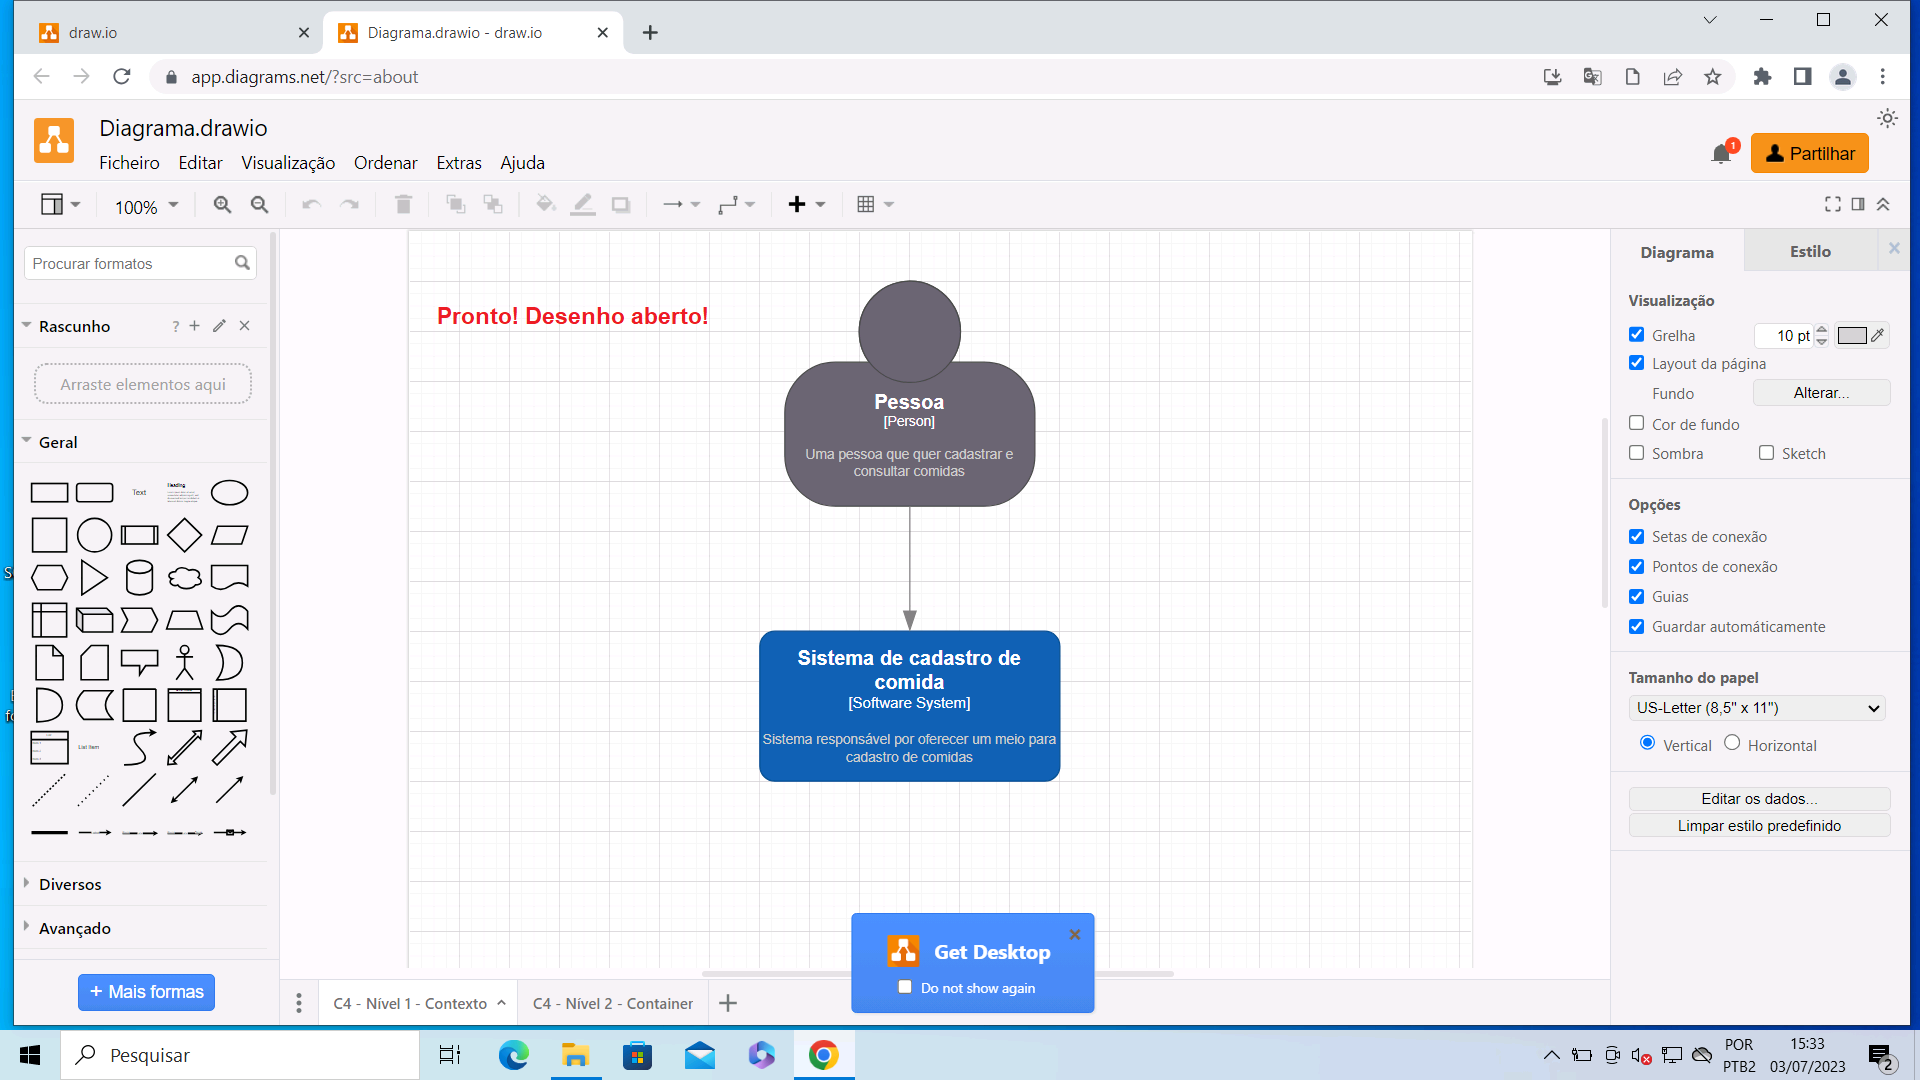
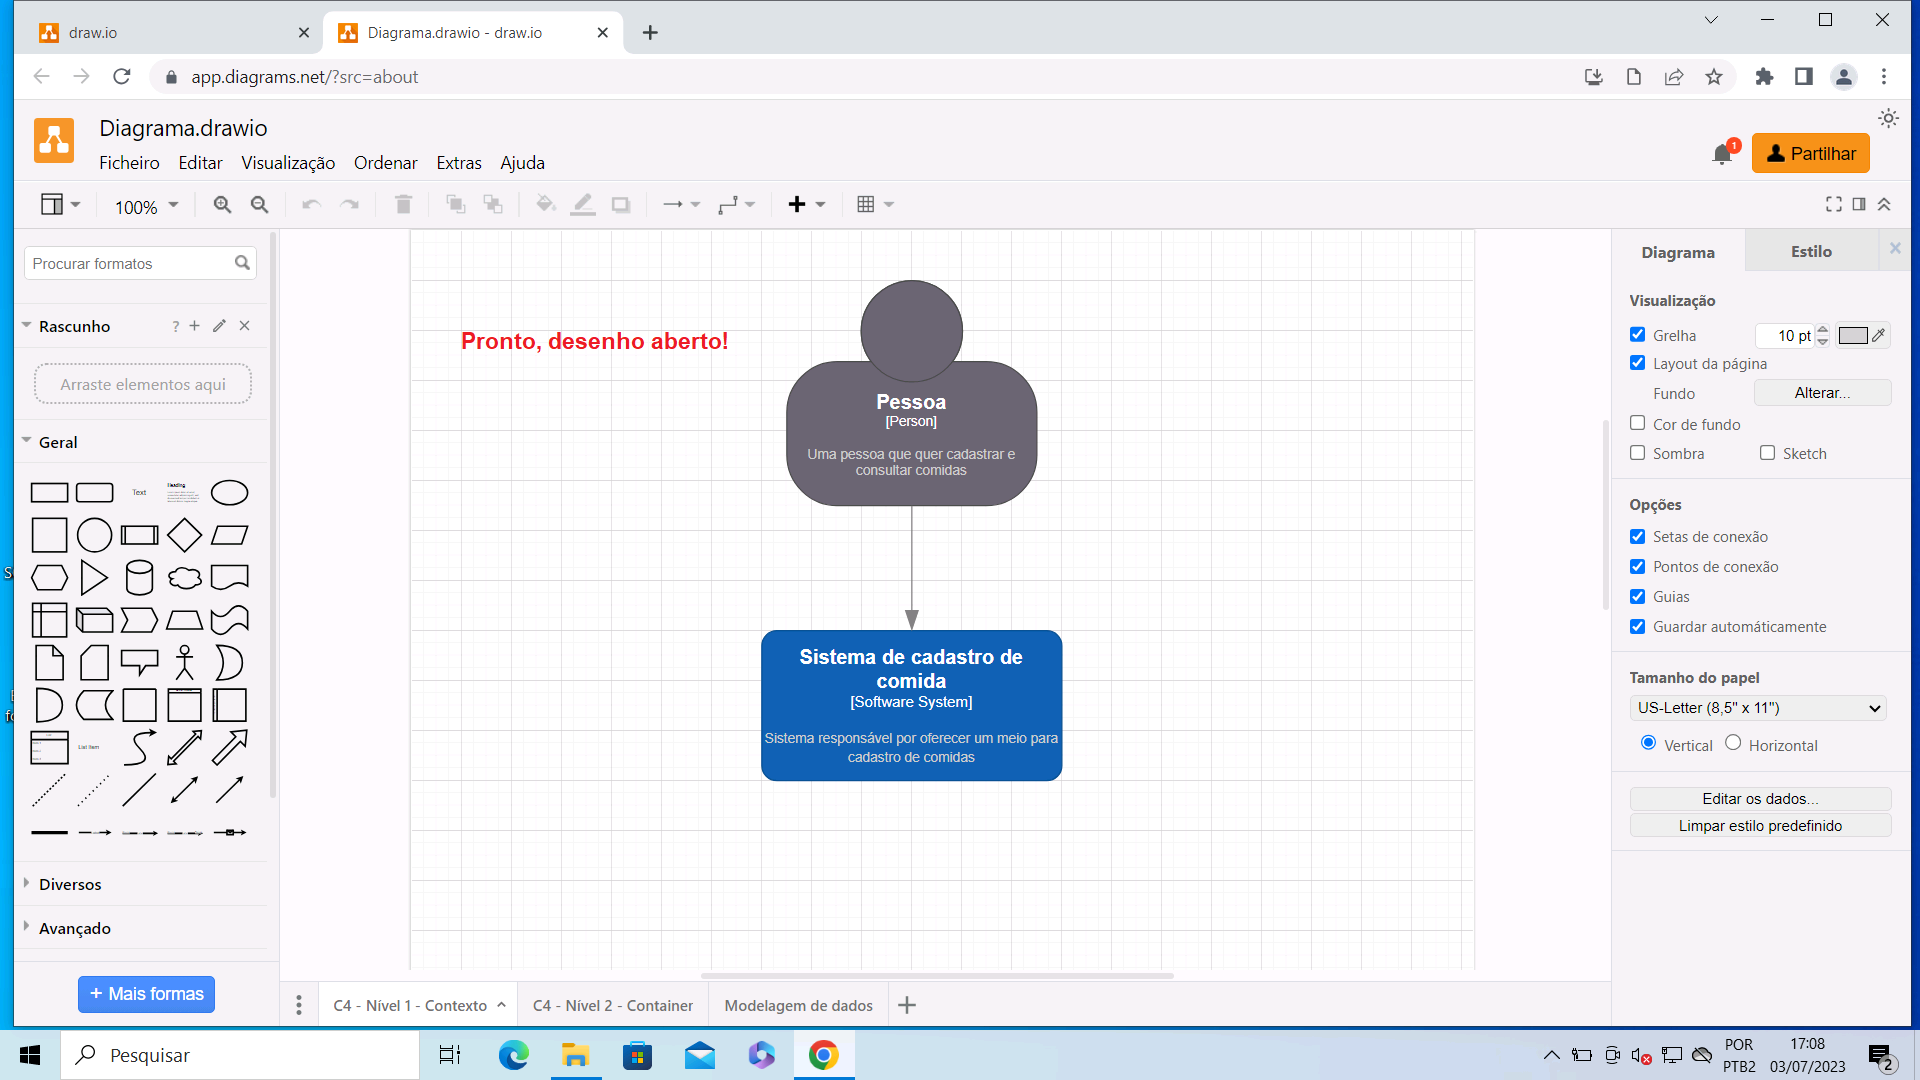
Adição das últimas imagens para o README

diff --git a/README.md b/README.md
@@ -137,6 +137,8 @@ Para abrir o arquivo Diagrama.drawio, há duas maneiras de se fazer:
 
 Aqui você terá que utilizar o SQ Lite Studio tanto para ver o modelo do arquivo MeuDb.db quanto para alterá-lo.
 
+![Print do arquivo Diagrama.drawio aberto mostrando a aba "Modelagem de dados"](/../main/Imagens/Drawio-modelagem-print.png)
+
 ### Passos para uso do MeuDb
 
 O arquivo MeuDb.db estará na pasta "Banco de Dados" neste repositório.
